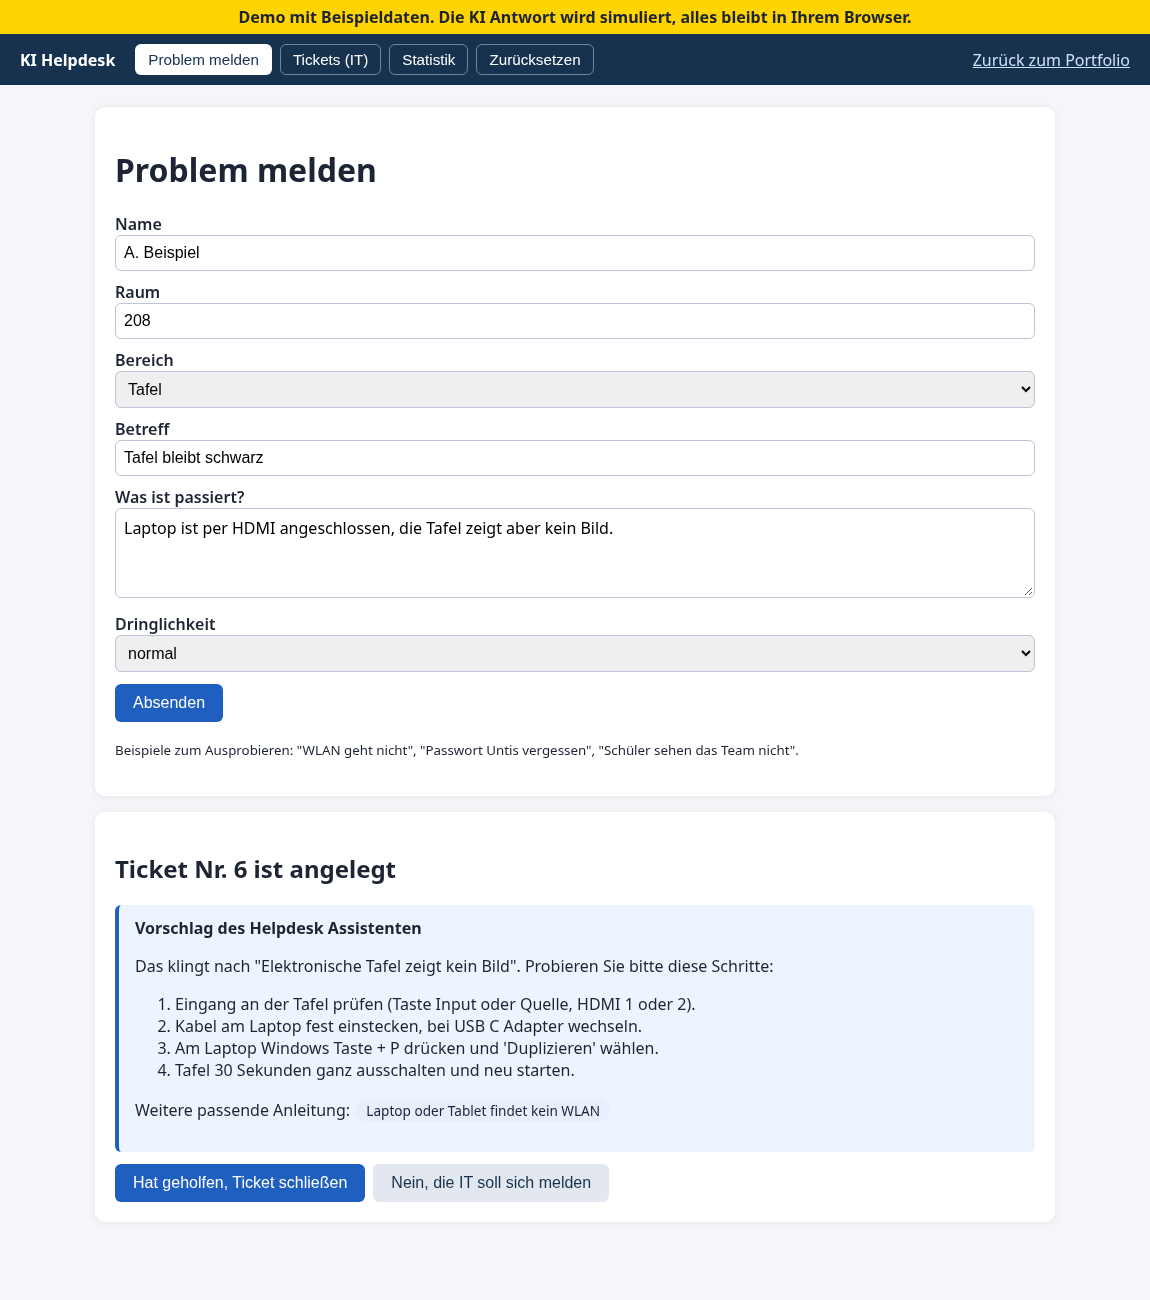
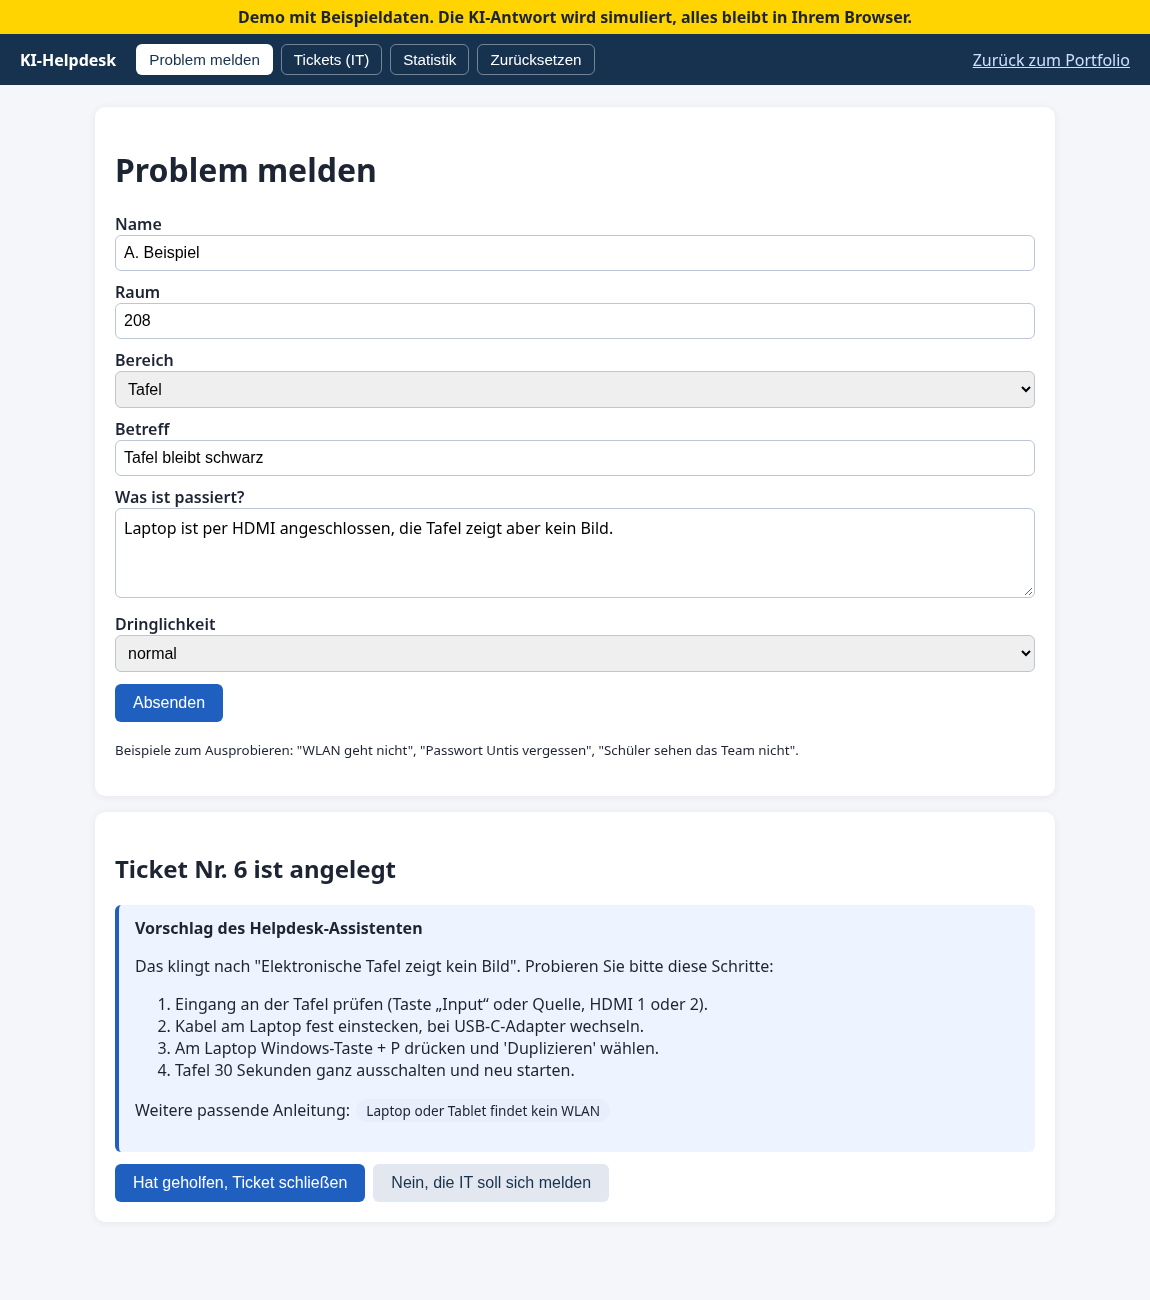
Screenshots neu, Statistik-Überschrift

diff --git a/helpdesk-demo/app.js b/helpdesk-demo/app.js
@@ -37,7 +37,7 @@ function upd(id,k,v){T.find(t=>t.id==id)[k]=v;save()}
 function statistik(){const n=T.length,g=T.filter(t=>t.status=="gelöst").length,s=T.filter(t=>t.bearbeiter=="Selbsthilfe").length,q=n?Math.round(g/n*100):0;
 const kat={};T.forEach(t=>kat[t.kategorie]=(kat[t.kategorie]||0)+1);const m=Math.max(...Object.values(kat));
 app.innerHTML=`<h1>Statistik</h1><div class="kpi"><div><b>${n}</b>Tickets</div><div><b>${g}</b>gelöst</div><div><b>${s}</b>per Selbsthilfe</div><div><b>${q} %</b>Lösungsquote</div></div>
-<div class="box" style="margin-top:16px"><h3>Lösungsquote</h3><div class="bar"><span style="width:${q}%"></span></div><h3>Tickets nach Bereich</h3>${
+<div class="box" style="margin-top:16px"><h3>Anteil gelöster Tickets</h3><div class="bar"><span style="width:${q}%"></span></div><h3>Tickets nach Bereich</h3>${
 Object.entries(kat).sort((a,b)=>b[1]-a[1]).map(([k,v])=>`<div>${k}: ${v}<div class="bar"><span style="width:${v/m*100}%"></span></div></div>`).join("")}</div>`}
 function ansicht(v){if(v=="reset"){localStorage.removeItem("hddemo");T=JSON.parse(JSON.stringify(SEED));v="melden"}
 document.querySelectorAll("nav button").forEach(b=>b.classList.toggle("on",b.dataset.v==v));({melden,liste,statistik})[v]()}
